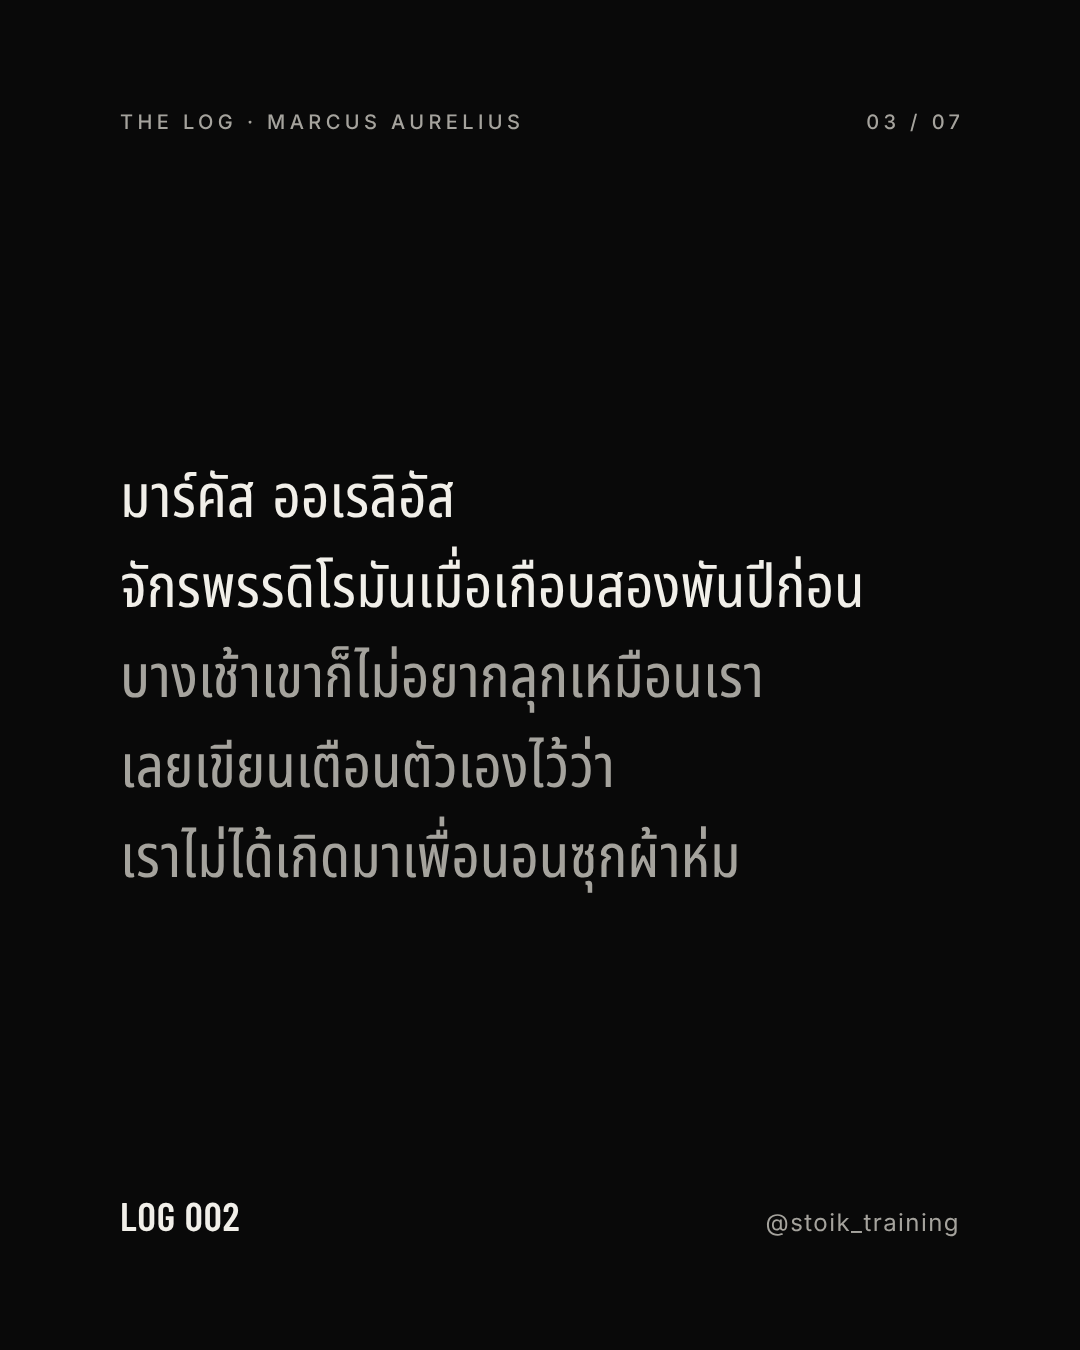
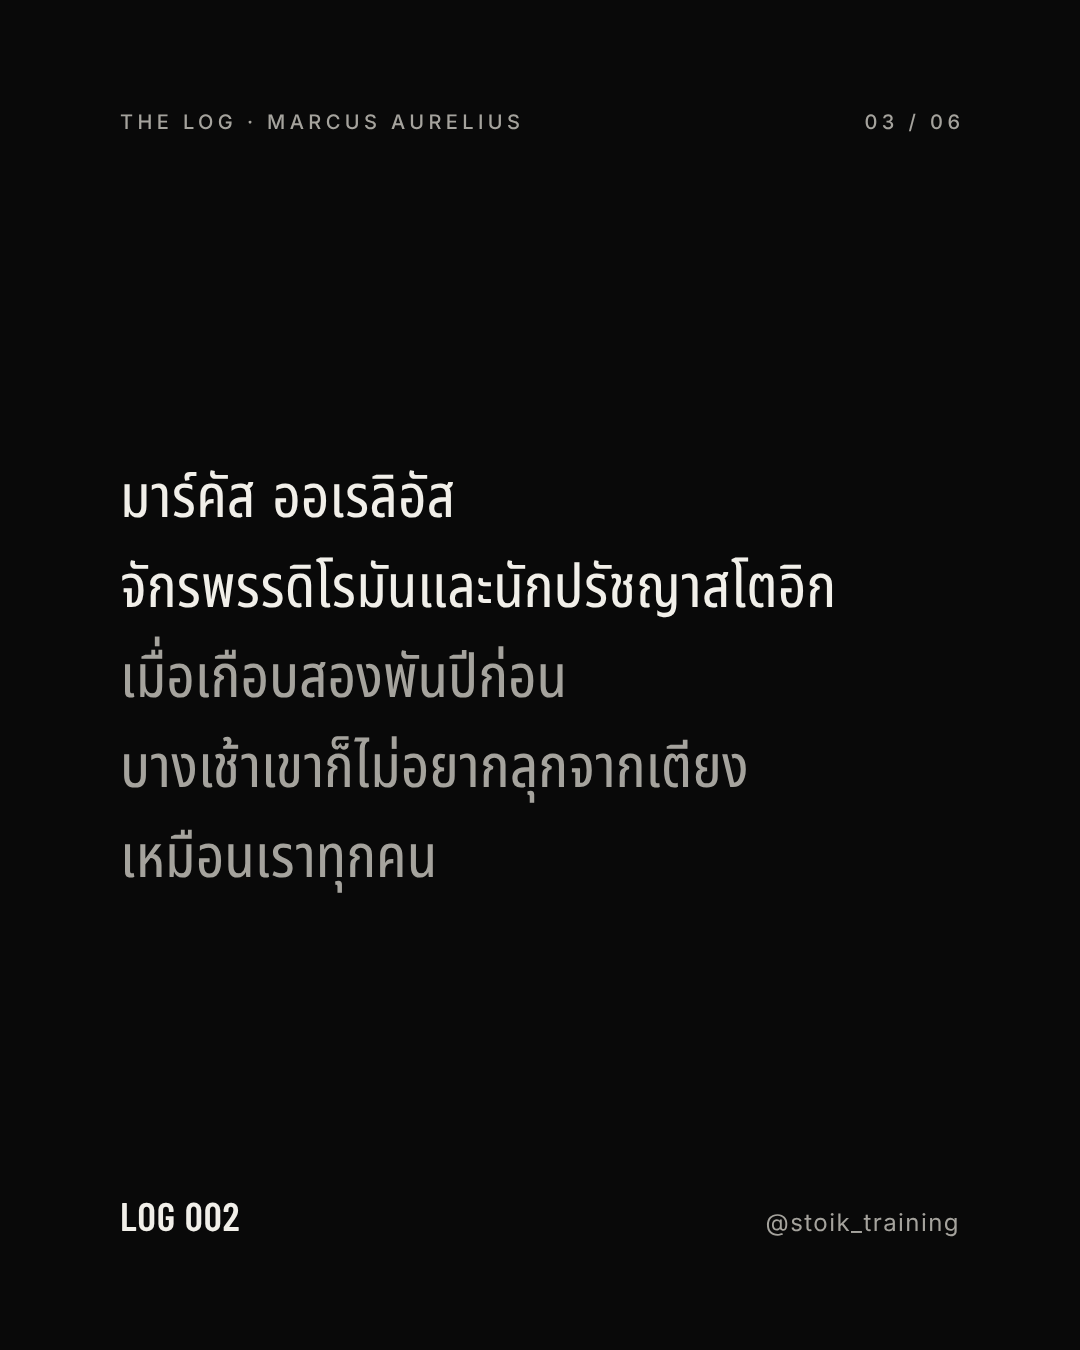
Rewrite LOG 002 as a six-slide first-person story
Built around "I stopped waiting to feel motivated. I trained anyway." Adds an optional lead-in line to the closing slide.

Claude-Session: https://claude.ai/code/session_01VRtrjmcTE5nBSy7oN5xmiW

Changed region(s): [[0.1222, 0.4044, 0.7944, 0.6533], [0.8556, 0.0622, 0.8861, 0.0933], [0.7944, 0.0622, 0.825, 0.0933]]

diff --git a/stoik-log/render.js b/stoik-log/render.js
@@ -57,6 +57,7 @@ html,body{background:#090909}
 .tb.m,.tb .m{color:#A5A39D}
 .lab{font-size:36px;line-height:1.3;color:#A5A39D;margin-bottom:10px}
 .shift .rule{margin:54px 0 50px}
+.pre{font-weight:300;font-size:46px;line-height:56px;color:#A5A39D;margin-bottom:40px;letter-spacing:.005em}
 .p5{font-weight:300;font-size:46px;line-height:56px;margin-top:62px;letter-spacing:.005em}
 .t5{font-size:38px;line-height:54px;color:#A5A39D;margin-top:24px}
 `;
@@ -78,7 +79,7 @@ function slide(d, s, i, kind, hs) {
   else if (s.type === 'turn') body = `<div class="rule"></div><div class="h">${lines(s.en)}</div><div class="th t4">${lines(s.th)}</div>`;
   else if (s.type === 'shift') body = `<div class="th shift"><div class="lab">${esc(s.fromLabel || 'แทนที่จะคิดว่า')}</div><div class="tb m">${lines(s.from)}</div><div class="rule"></div><div class="lab">${esc(s.toLabel || 'ให้คิดว่า')}</div><div class="tb">${lines(s.to)}</div></div>`;
   else if (s.type === 'closing') {
-    body = `<div class="h">${lines(s.en)}</div>${s.sub ? `<div class="p5">${lines(s.sub)}</div>` : ''}<div class="th ${s.sub ? 't5' : 't7'}">${lines(s.th)}</div>`;
+    body = `${s.pre ? `<div class="pre">${lines(s.pre)}</div>` : ''}<div class="h">${lines(s.en)}</div>${s.sub ? `<div class="p5">${lines(s.sub)}</div>` : ''}<div class="th ${s.sub ? 't5' : 't7'}">${lines(s.th)}</div>`;
     footL = WORDMARK;
     if (s.cta) footR = `${esc(s.cta)}${s.ctaTh ? ` · <span class="th">${esc(s.ctaTh)}</span>` : ''}`;
   } else throw new Error(`slide ${i + 1}: unknown type "${s.type}"`);

diff --git a/stoik-log/README.md b/stoik-log/README.md
@@ -26,7 +26,7 @@ One JSON file per LOG in `logs/`. `logs/log-001.json` is the reference.
 | `date`, `topic`, `figure` | Not shown. Used to avoid repeating a theme or a philosopher |
 | `stamp` | Short label after "THE LOG ·" in the header, usually the philosopher's name |
 | `handle` | Shown bottom right |
-| `slides` | The slides, in order |
+| `slides` | The slides, in order. Use as many as the story needs, no more |
 
 Every array entry is one line on the slide. Lines never wrap by themselves, so the line breaks are the writer's choice. The script stops with an error if a line is wider than the frame (about 34 Thai characters or 24 English characters of body text) or a slide has too many lines. Headlines shrink to fit, so keep each headline line near 10 characters to keep them large.
 
@@ -39,4 +39,4 @@ Slide types:
 | `text` | `en`, `en2`, `th` | English body text (bright then muted) with a smaller Thai translation |
 | `turn` | `en`, `th` | Short rule, very large English headline, Thai line |
 | `shift` | `from`, `to` | "แทนที่จะคิดว่า" (muted) over "ให้คิดว่า" (bright) |
-| `closing` | `en`, `th`, optional `sub`, `cta`, `ctaTh` | Large English statement, Thai line, wordmark footer |
+| `closing` | `en`, `th`, optional `pre`, `sub`, `cta`, `ctaTh` | Optional muted English lead-in (`pre`), large English statement, Thai line, wordmark footer |
